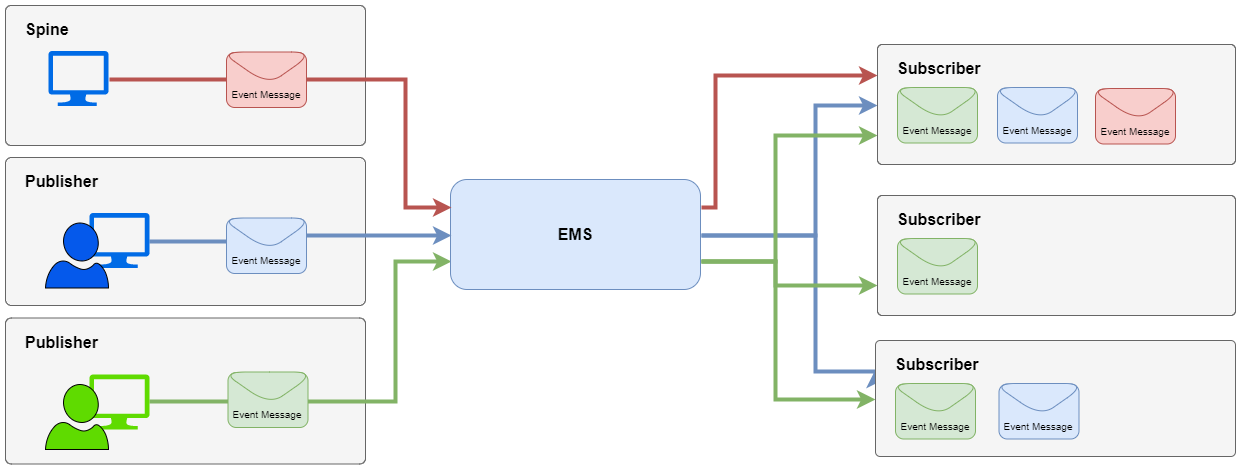
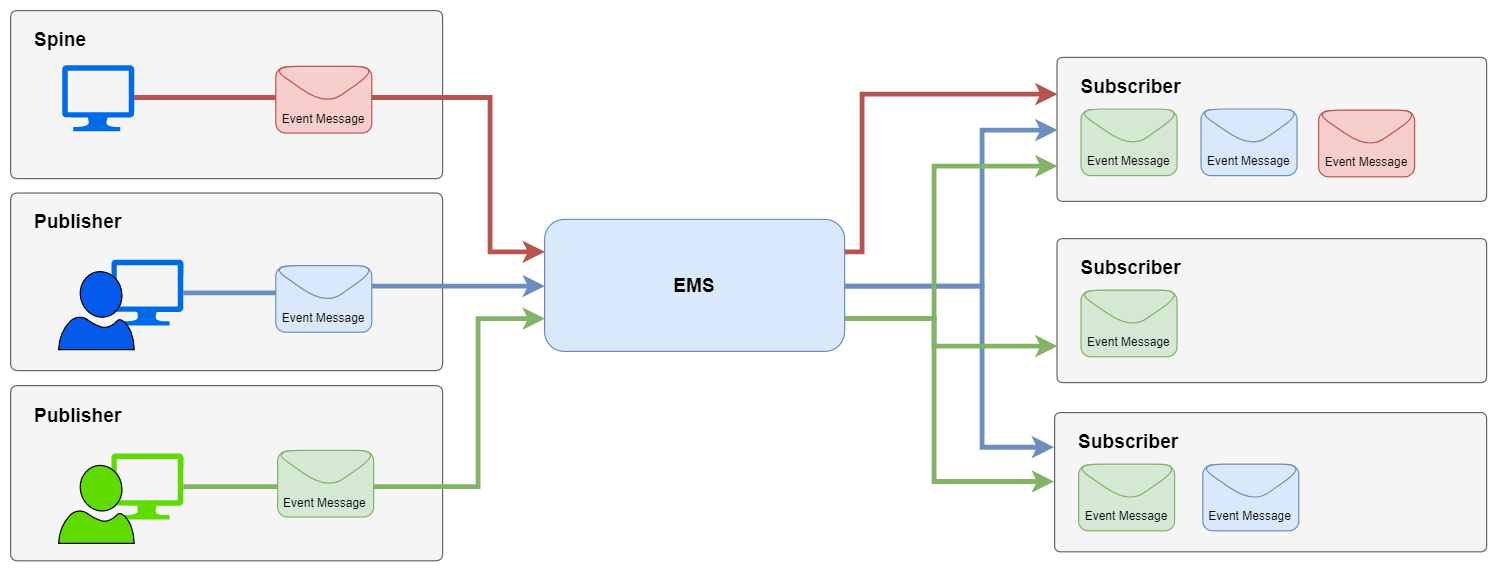
Updates for feedback from spec review, wording improvements, diagram corrections and additional clarification on index page.

diff --git a/index.md b/index.md
@@ -15,7 +15,8 @@ toc: false
 
 ## Introduction
 
-The National Events Management Service (NEMS) is a national service implemented on the [Spine](https://digital.nhs.uk/services/spine) allowing for patient centric event messages to be published from one system and distributed to a number of other systems which have subscribed an interest in that type of message or messages related to that specific patient.
+The National Events Management Service (NEMS) is a national service implemented on the [Spine](https://digital.nhs.uk/services/spine) allowing for patient centric event messages to be published from one system and distributed to a number of other subscriber systems.
+
 
 The NEMS is designed to be a generic transport mechanism which can support a variety of use cases and event types from a number of different care settings. This specification focuses on the transport mechanism and the common event message elements:
 
@@ -34,7 +35,7 @@ The specific event messages which have been defined for use through the NEMS can
 | [Digital Child Health](https://developer.nhs.uk/apis/dch-beta/) | This specification contains the event messages defined by the Digital Child Health program to support the care of children. | May 2019 to<br/>TBC 2020<br/>(see guide for specific events) |
 | [National Population Failsafe Management](https://developer.nhs.uk/apis/npfm-beta/) | Specification containing information around the national population failsafe functionality and the event messages the service will publish to the EMS. | TBC 2019 |
 
-The `Date events available` column in the table is the date when the events specified within the implementation guide will be supported by the NEMS. This date does not indicate that suppliers will be publishing the event messages, only that the NEMS will accept the event message from the publishers and will distribute the event messages to the subscribers.
+The `Date events available` column in the table is the date when the events specified within the implementation guide will be supported by the NEMS. This date does not indicate that suppliers will be publishing the event messages, only that the NEMS will accept the event message from the publishers and will distribute the event messages to the subscribers. The dates included are indicative of the current timeline for development but may change depending on priorities and feedback during development.
 
 Implementation guides such as `Digital Child Health` which contain a large number of events may be implemented incrementally. Events will be released for use once they have been implemented within the NEMS, while other event messages are still being developed. The Event Message Implementation Guides will contain specific detail around development and release dates for the individual event messages which are part of an incremental release process.
 

diff --git a/pages/publication/publication_publish.md b/pages/publication/publication_publish.md
@@ -36,7 +36,7 @@ POST /$process-message
 The National Events Management Service will perform validation on the event message it receives from the publisher and will return:
 
 - a ```HTTP 202 Accepted``` response when the event message successfully passes validation
-- an `OperationOutcome` FHIR resource containing error information when the event message fails validation. The OperationOutcome resource will contain one of the [standard error codes](https://developer.nhs.uk/apis/spine-core/resources_error_handling.html).
+- an `OperationOutcome` FHIR resource containing error information when the event message fails validation. The OperationOutcome resource will contain one of the [Spine ErrorOrWarning Codes](https://fhir.nhs.uk/STU3/ValueSet/Spine-ErrorOrWarningCode-1) and conform to the structure set out in the [Spine Core FHIR](https://developer.nhs.uk/apis/spine-core/resources_error_handling.html) specification.
 
 
 ## Onward Delivery of the event message to subscribers ##

diff --git a/pages/explore/msg_architecture_overview.md b/pages/explore/msg_architecture_overview.md
@@ -17,7 +17,7 @@ The diagram below shows the high level requirements of an National Events Manage
 2. A successful subscription request will return a conformation of the subscription creation
 3. A publisher will generate an event message and send it to the NEMS
 4. The NEMS will validate the sent event message and return an accepted response to the publisher
-5. The NEMS takes the event messages and matches the content of the event message to the subscriptions. For each subscription which matches the event message being processed the NEMS will send the event message to the subscriber via MESH
+5. The NEMS takes the event messages and matches the content of the event message to the subscriptions. For each event message which matches the subscription criteria the NEMS will send the event message to the subscriber via MESH
 
 
 ## Messaging Pattern
